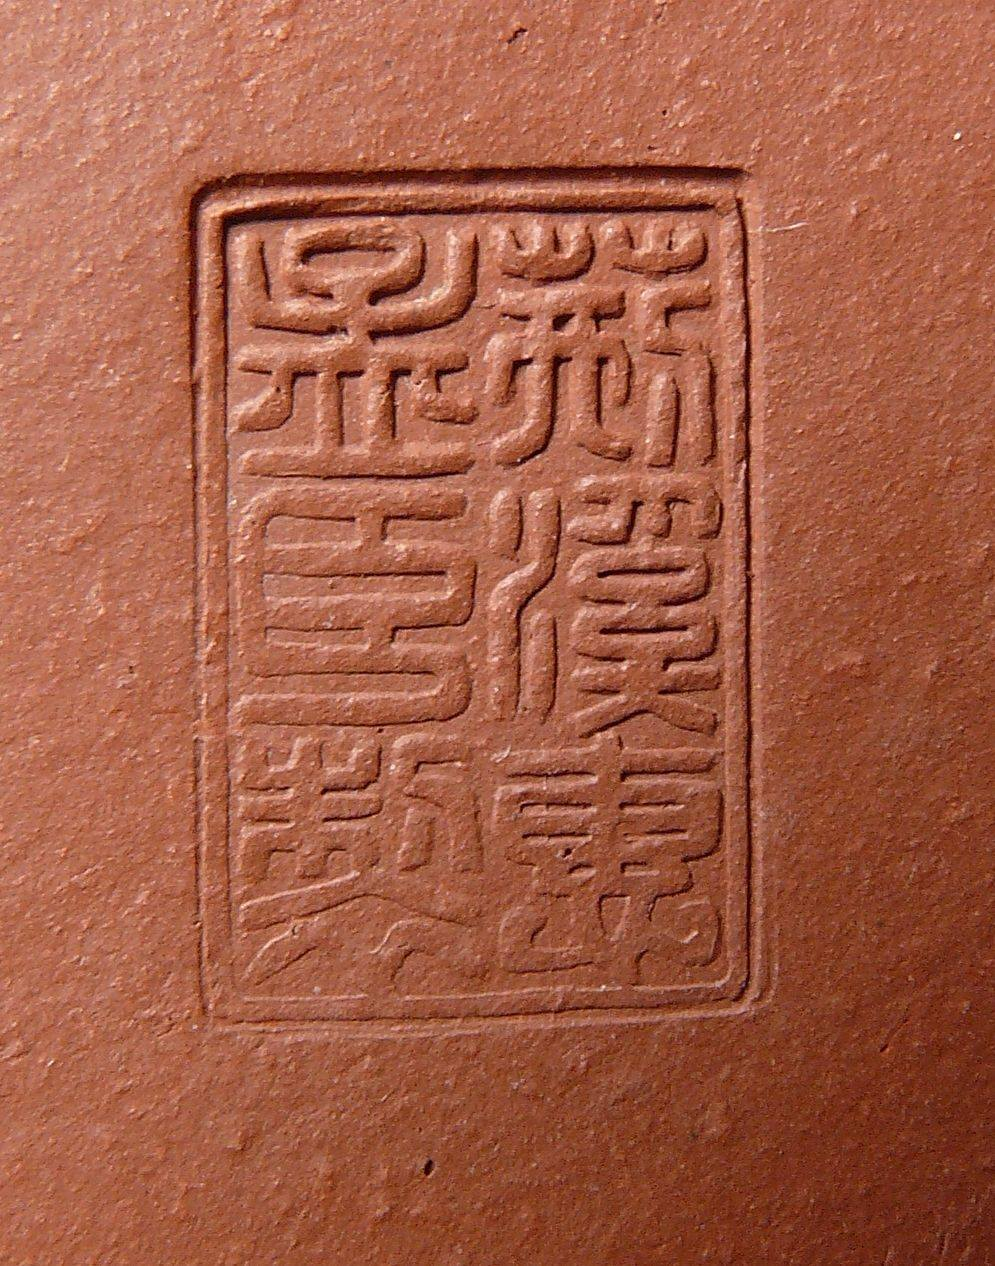
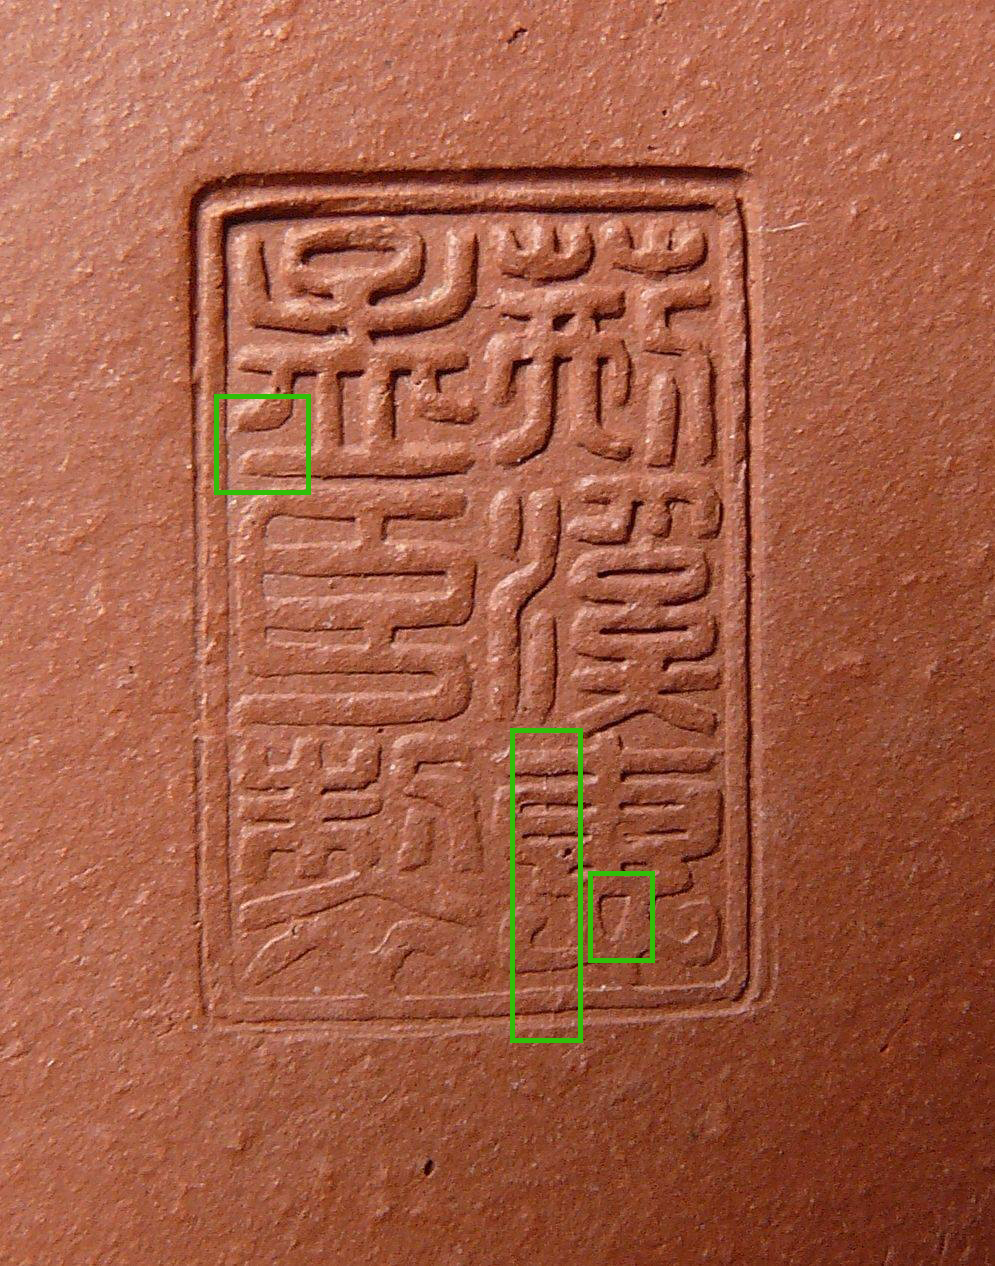
50-60 seals

Changed region(s): [[0.4985, 0.5545, 0.6543, 0.8318], [0.2181, 0.3081, 0.3116, 0.4005], [0.6543, 0.7085, 0.6854, 0.7393]]

diff --git a/src/content/tea/early-teapots-1958-1960s-seals.md b/src/content/tea/early-teapots-1958-1960s-seals.md
@@ -16,64 +16,56 @@ through the 1960s can be grouped into several commonly recognized seal types:
 - **Four-Leg Xi (四腳溪)** – *at least* 3 variations
 - **Yixing Hui (宜興惠)** – *at least* 1
 - **Jingxi Nan / Nan Meng Chen (荊溪南 / 南孟臣)** – *at least* 1
-- **Da Jiao Xi (大腳溪)** – *at least* 5
+- **Da Jiao Xi (大腳溪)** – *at least* 4
 - **Xiao Jiao Xi (小腳溪)** – *at least* 1
 - **“China Yixing” (中國宜興)** – one early version
 
-<figure>
-  <a href="/tea/posts/early-teapots-1958-1960s-seals/4-leg-xi-var-1.jpg" target="_blank" rel="noopener noreferrer">
-    <img src="/tea/posts/early-teapots-1958-1960s-seals/4-leg-xi-var-1.jpg" alt="Four-Leg Xi (四腳溪) variation 1" loading="lazy" decoding="async" />
-  </a>
-  <figcaption>Four-Leg Xi (四腳溪) variation 1</figcaption>
+<figure class="full-size">
+  <img src="/tea/posts/early-teapots-1958-1960s-seals/4-leg-xi-var-1.jpg" alt="Four-Leg Xi (四腳溪) variation 1" loading="lazy" decoding="async" />
+  <figcaption>Four-Leg Xi (四腳溪)</figcaption>
 </figure>
 
-<div class="image-gallery four-up" role="group" aria-label="Da Jiao Xi (大腳溪) variations">
-  <figure>
-    <a href="/tea/posts/early-teapots-1958-1960s-seals/big-xi-var-1.jpg" target="_blank" rel="noopener noreferrer">
-      <img src="/tea/posts/early-teapots-1958-1960s-seals/big-xi-var-1.jpg" alt="Da Jiao Xi (大腳溪) variation 1" loading="lazy" decoding="async" />
-    </a>
-    <figcaption>Da Jiao Xi (大腳溪) variation 1</figcaption>
-  </figure>
-  <figure>
-    <a href="/tea/posts/early-teapots-1958-1960s-seals/big-xi-var-2.jpg" target="_blank" rel="noopener noreferrer">
-      <img src="/tea/posts/early-teapots-1958-1960s-seals/big-xi-var-2.jpg" alt="Da Jiao Xi (大腳溪) variation 2" loading="lazy" decoding="async" />
-    </a>
-    <figcaption>Da Jiao Xi (大腳溪) variation 2</figcaption>
-  </figure>
-  <figure>
-    <a href="/tea/posts/early-teapots-1958-1960s-seals/big-xi-var-3.jpg" target="_blank" rel="noopener noreferrer">
-      <img src="/tea/posts/early-teapots-1958-1960s-seals/big-xi-var-3.jpg" alt="Da Jiao Xi (大腳溪) variation 3" loading="lazy" decoding="async" />
-    </a>
-    <figcaption>Da Jiao Xi (大腳溪) variation 3</figcaption>
-  </figure>
-  <figure>
-    <a href="/tea/posts/early-teapots-1958-1960s-seals/big-xi-var-4.jpg" target="_blank" rel="noopener noreferrer">
-      <img src="/tea/posts/early-teapots-1958-1960s-seals/big-xi-var-4.jpg" alt="Da Jiao Xi (大腳溪) variation 4" loading="lazy" decoding="async" />
-    </a>
-    <figcaption>Da Jiao Xi (大腳溪) variation 4</figcaption>
-  </figure>
-</div>
+<figure class="full-size">
+  <img src="/tea/posts/early-teapots-1958-1960s-seals/big-xi-var-1.jpg" alt="Da Jiao Xi (大腳溪) variation 1" loading="lazy" decoding="async" />
+  <figcaption>Da Jiao Xi (大腳溪) variation 1: "There is a straight line in the character '製', which should be a crack
+left from repeated use of a wooden seal. The lower-left part of the character '孟' is stuck together."</figcaption>
+</figure>
+<figure class="full-size">
+  <img src="/tea/posts/early-teapots-1958-1960s-seals/big-xi-var-2.jpg" alt="Da Jiao Xi (大腳溪) variation 2" loading="lazy" decoding="async" />
+  <figcaption>Da Jiao Xi (大腳溪) variation 2: The lower-left part of the character 惠 has a straight crack line; the 
+'mouth' component of 惠 is V-shaped — sometimes I call it the 'V-mouth 惠'. The lower-left part of the character 孟 is 
+clearly separated.</figcaption>
+</figure>
+<figure class="full-size">
+  <img src="/tea/posts/early-teapots-1958-1960s-seals/big-xi-var-3.jpg" alt="Da Jiao Xi (大腳溪) variation 3" loading="lazy" decoding="async" />
+  <figcaption>Da Jiao Xi (大腳溪) variation 3: The two dots on the left and right of the 'heart' component in the 
+character 惠 are more curved than those in other seal marks, and the 'mouth' component of 惠 is O-shaped — sometimes 
+called 'O-mouth 惠'.</figcaption>
+</figure>
+<figure class="full-size">
+  <img src="/tea/posts/early-teapots-1958-1960s-seals/big-xi-var-4.jpg" alt="Da Jiao Xi (大腳溪) variation 4" loading="lazy" decoding="async" />
+  <figcaption>Da Jiao Xi (大腳溪) variation 4: The upper part of the character 惠 is separate from the lower ‘heart’ 
+component. This seal mark is slightly wider than the others, and sometimes called ‘large seal mark.’</figcaption>
+</figure>
 
-<div class="image-gallery three-up" role="group" aria-label="Other seal types">
-  <figure>
-    <a href="/tea/posts/early-teapots-1958-1960s-seals/nan.jpg" target="_blank" rel="noopener noreferrer">
-      <img src="/tea/posts/early-teapots-1958-1960s-seals/nan.jpg" alt="Jingxi Nan / Nan Meng Chen (荊溪南 / 南孟臣)" loading="lazy" decoding="async" />
-    </a>
-    <figcaption>Jingxi Nan / Nan Meng Chen (荊溪南 / 南孟臣)</figcaption>
-  </figure>
-  <figure>
-    <a href="/tea/posts/early-teapots-1958-1960s-seals/small-xi-var-1.jpg" target="_blank" rel="noopener noreferrer">
-      <img src="/tea/posts/early-teapots-1958-1960s-seals/small-xi-var-1.jpg" alt="Xiao Jiao Xi (小腳溪) variation 1" loading="lazy" decoding="async" />
-    </a>
-    <figcaption>Xiao Jiao Xi (小腳溪) variation 1</figcaption>
-  </figure>
-  <figure>
-    <a href="/tea/posts/early-teapots-1958-1960s-seals/yixing.jpg" target="_blank" rel="noopener noreferrer">
-      <img src="/tea/posts/early-teapots-1958-1960s-seals/yixing.jpg" alt="China Yixing (中國宜興)" loading="lazy" decoding="async" />
-    </a>
-    <figcaption>China Yixing (中國宜興)</figcaption>
-  </figure>
-</div>
+<figure class="full-size">
+  <a href="/tea/posts/early-teapots-1958-1960s-seals/nan.jpg" target="_blank" rel="noopener noreferrer">
+    <img src="/tea/posts/early-teapots-1958-1960s-seals/nan.jpg" alt="Jingxi Nan / Nan Meng Chen (荊溪南 / 南孟臣)" loading="lazy" decoding="async" />
+  </a>
+  <figcaption>Jingxi Nan / Nan Meng Chen (荊溪南 / 南孟臣)</figcaption>
+</figure>
+<figure class="full-size">
+  <a href="/tea/posts/early-teapots-1958-1960s-seals/small-xi-var-1.jpg" target="_blank" rel="noopener noreferrer">
+    <img src="/tea/posts/early-teapots-1958-1960s-seals/small-xi-var-1.jpg" alt="Xiao Jiao Xi (小腳溪) variation 1" loading="lazy" decoding="async" />
+  </a>
+  <figcaption>Xiao Jiao Xi (小腳溪)</figcaption>
+</figure>
+<figure class="full-size">
+  <a href="/tea/posts/early-teapots-1958-1960s-seals/yixing.jpg" target="_blank" rel="noopener noreferrer">
+    <img src="/tea/posts/early-teapots-1958-1960s-seals/yixing.jpg" alt="China Yixing (中國宜興)" loading="lazy" decoding="async" />
+  </a>
+  <figcaption>China Yixing (中國宜興)</figcaption>
+</figure>
 
 The phrase *“at least”* is used because no surviving archival documents conclusively confirm these as the only 
 legitimate seals from the period. Although unlikely, additional variations may still exist. Potential outliers should 
